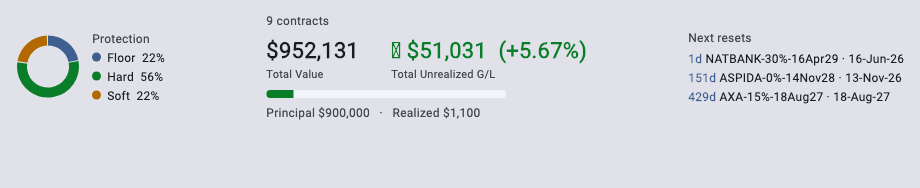
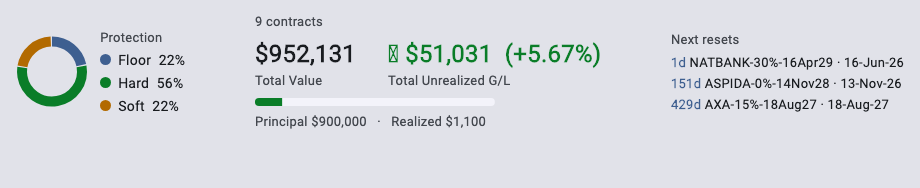
Hero/summary: enlarge fonts for readability
Protection legend 12->14px (bolder, bigger dots), section labels/captions/next-
resets 11-12 -> 13, headline KPIs 22 -> 24, donut 64 -> 72. The small grey-on-
grey labels were hard to read.

diff --git a/app/lib/ui/portfolio_hero.dart b/app/lib/ui/portfolio_hero.dart
@@ -62,8 +62,8 @@ class _ProtectionDonut extends StatelessWidget {
     final entries = mix.entries.where((e) => e.value > 0).toList();
     return Row(mainAxisSize: MainAxisSize.min, children: [
       SizedBox(
-        width: 64,
-        height: 64,
+        width: 72,
+        height: 72,
         child: CustomPaint(
           painter: _DonutPainter(
             [for (final e in entries) (protectionPalette(e.key, cs).accent, e.value)],
@@ -77,7 +77,7 @@ class _ProtectionDonut extends StatelessWidget {
         crossAxisAlignment: CrossAxisAlignment.start,
         children: [
           Text('Protection',
-              style: TextStyle(fontSize: 12, color: cs.onSurfaceVariant)),
+              style: TextStyle(fontSize: 13, color: cs.onSurfaceVariant)),
           for (final e in entries)
             _legend(e.key, e.value, total, protectionPalette(e.key, cs).accent),
         ],
@@ -88,11 +88,12 @@ class _ProtectionDonut extends StatelessWidget {
   Widget _legend(String label, double v, double total, Color c) {
     final pctText = total <= 0 ? '' : '  ${(v / total * 100).round()}%';
     return Padding(
-      padding: const EdgeInsets.only(top: 2),
+      padding: const EdgeInsets.only(top: 3),
       child: Row(mainAxisSize: MainAxisSize.min, children: [
-        Container(width: 9, height: 9, decoration: BoxDecoration(color: c, shape: BoxShape.circle)),
-        const SizedBox(width: 6),
-        Text('$label$pctText', style: const TextStyle(fontSize: 12)),
+        Container(width: 11, height: 11, decoration: BoxDecoration(color: c, shape: BoxShape.circle)),
+        const SizedBox(width: 7),
+        Text('$label$pctText',
+            style: const TextStyle(fontSize: 14, fontWeight: FontWeight.w500)),
       ]),
     );
   }
@@ -141,16 +142,16 @@ class _ProjectedBlock extends StatelessWidget {
           crossAxisAlignment: CrossAxisAlignment.start,
           children: [
             value,
-            Text(label, style: TextStyle(fontSize: 11, color: cs.onSurfaceVariant)),
+            Text(label, style: TextStyle(fontSize: 13, color: cs.onSurfaceVariant)),
           ],
         );
-    const big = TextStyle(fontSize: 22, fontWeight: FontWeight.bold);
+    const big = TextStyle(fontSize: 24, fontWeight: FontWeight.bold);
     return Column(
       mainAxisSize: MainAxisSize.min,
       crossAxisAlignment: CrossAxisAlignment.start,
       children: [
         Text('${store.holdings.length} contracts',
-            style: TextStyle(fontSize: 12, color: cs.onSurfaceVariant)),
+            style: TextStyle(fontSize: 13, color: cs.onSurfaceVariant)),
         const SizedBox(height: 6),
         // The two headline totals, large and meaningfully colored.
         Wrap(spacing: 32, runSpacing: 8, children: [
@@ -175,7 +176,7 @@ class _ProjectedBlock extends StatelessWidget {
         Text(
             'Principal ${moneyK(store.totalInitial)}   ·   '
             'Realized ${moneyK(store.totalRealized)}',
-            style: TextStyle(fontSize: 12, color: cs.onSurfaceVariant)),
+            style: TextStyle(fontSize: 13, color: cs.onSurfaceVariant)),
       ],
     );
   }
@@ -223,7 +224,7 @@ class _NextResets extends StatelessWidget {
       mainAxisSize: MainAxisSize.min,
       crossAxisAlignment: CrossAxisAlignment.start,
       children: [
-        Text('Next resets', style: TextStyle(fontSize: 12, color: cs.onSurfaceVariant)),
+        Text('Next resets', style: TextStyle(fontSize: 13, color: cs.onSurfaceVariant)),
         const SizedBox(height: 2),
         for (final h in top)
           Padding(
@@ -233,7 +234,7 @@ class _NextResets extends StatelessWidget {
                   text: '${h.daysToReset(asOf)}d ',
                   style: TextStyle(fontWeight: FontWeight.bold, color: cs.primary)),
               TextSpan(text: '${store.labelFor(h)} · ${date(h.nextReset)}'),
-            ]), style: const TextStyle(fontSize: 12), overflow: TextOverflow.ellipsis),
+            ]), style: const TextStyle(fontSize: 13), overflow: TextOverflow.ellipsis),
           ),
       ],
     );